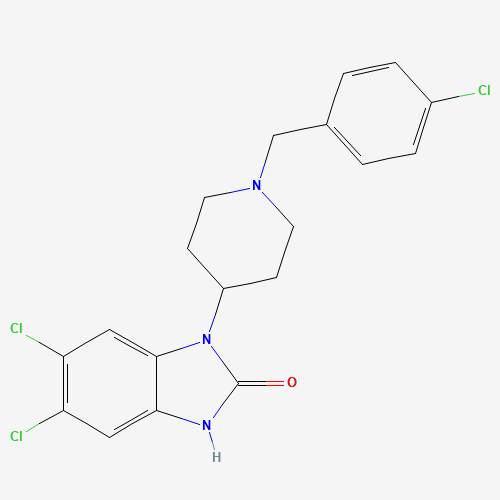
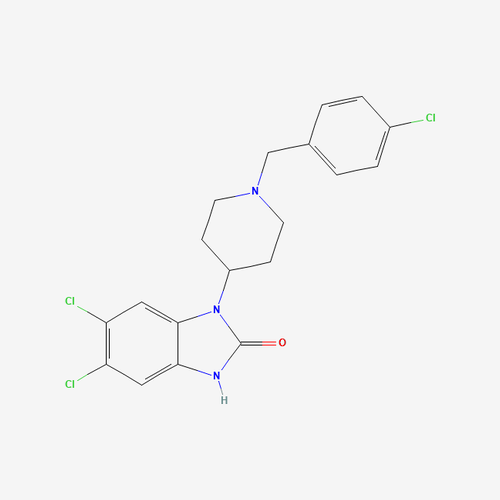
Update Signal contact link, reframe SR 17018 molecule, enlarge molecule display
- Point Signal contact button + share modal at current signal.me username link
- Reframe sr17018.png to ~74% fill (was bleeding edge-to-edge) so the full molecule is visible and centered
- Enlarge .molecule display box across substance pages (180->240 desktop, with responsive bumps)

diff --git a/assets/substance.css b/assets/substance.css
@@ -88,8 +88,8 @@ main {
 }
 
 .molecule {
-  width: 180px;
-  height: 180px;
+  width: 240px;
+  height: 240px;
   object-fit: contain;
   filter: invert(1) brightness(1.3) contrast(1.6) sepia(0.4) saturate(2);
   margin-bottom: 2rem;
@@ -348,7 +348,7 @@ textarea:focus-visible,
   header { padding: 1.15rem 1.25rem; }
   main { padding: 4vh 1.25rem 5vh; }
 
-  .molecule { width: 150px; height: 150px; margin-bottom: 1.5rem; }
+  .molecule { width: 200px; height: 200px; margin-bottom: 1.5rem; }
 
   .title { letter-spacing: 0.14em; }
   .rule { margin: 2.25rem auto; }
@@ -367,7 +367,7 @@ textarea:focus-visible,
   .header-logo img { height: 26px; }
   .back-btn { font-size: 0.56rem; letter-spacing: 0.24em; }
 
-  .molecule { width: 124px; height: 124px; margin-bottom: 1.25rem; }
+  .molecule { width: 165px; height: 165px; margin-bottom: 1.25rem; }
   .title { letter-spacing: 0.1em; }
   .subtitle { font-size: 0.6rem; letter-spacing: 0.22em; word-break: break-word; }
 

diff --git a/index.html b/index.html
@@ -951,7 +951,7 @@
     }
 
     function openSignal() {
-      window.open('https://signal.me/#eu/Ss0JsFb8nv-4qkJ03ZIFVXrQ6tTS3I6PwfrjMlHs3oSPc28QPtVGP7ov2DS37PEP', '_blank', 'noopener');
+      window.open('https://signal.me/#eu/quskep3TZm_BwsVLLo5wJuLgQBypKcXk3YFduG0R1QEWj2ZwcmBD2rA754dbBCcc', '_blank', 'noopener');
     }
 
     function copyLink() {